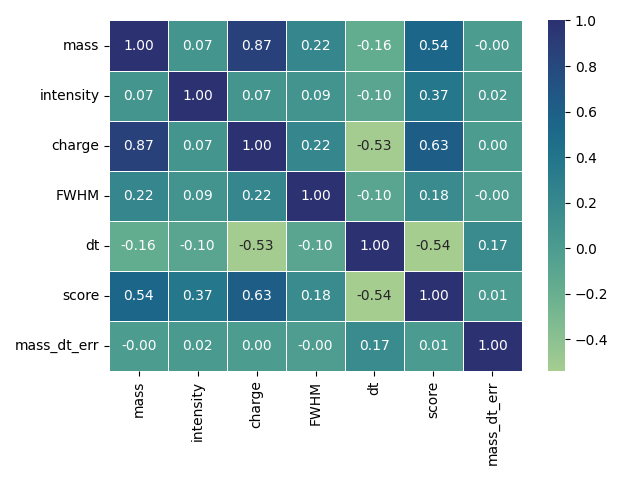
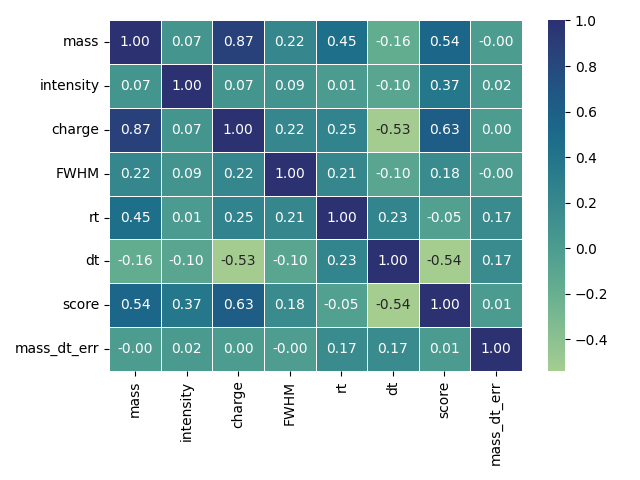
changes

diff --git a/correlation_matrices/main.py b/correlation_matrices/main.py
@@ -29,6 +29,6 @@ if __name__ == '__main__':
     # tenzer waters
     tw_raw_data = pd.read_csv(sys.argv[2])
     tw_df = pd.DataFrame(tw_raw_data)
-    not_used = ["run", "sequence", "type", "modification", "rt", "LiftOffRT", "TouchDownRT"]
-    #gen_correlation_matrix(tw_df, not_used, "tenzer_waters")
+    not_used = ["run", "sequence", "type", "modification", "LiftOffRT", "TouchDownRT"]
+    gen_correlation_matrix(tw_df, not_used, "tenzer_waters")
 # See PyCharm help at https://www.jetbrains.com/help/pycharm/

diff --git a/correlation_matrices/duplicates.py b/correlation_matrices/duplicates.py
@@ -20,12 +20,13 @@ def duplicates_mb():
     print(mb_df_count.quantile(0.25))
 
     plt.savefig("mb_count_same_seq")
+    plt.close()
 
     std_mb_df = mb_df.transform("std")
     std_mb_df = std_mb_df.rename(columns={"CCS": "STD of CCS Values with same Sequence"})
     std_mb_df.boxplot()
     IQR_STD = std_mb_df.quantile(0.75) - std_mb_df.quantile(0.25)
-    plt.savefig("tw_std_same_seq")
+    plt.savefig("mb_std_same_seq")
 
 
 def duplicates_tw():
